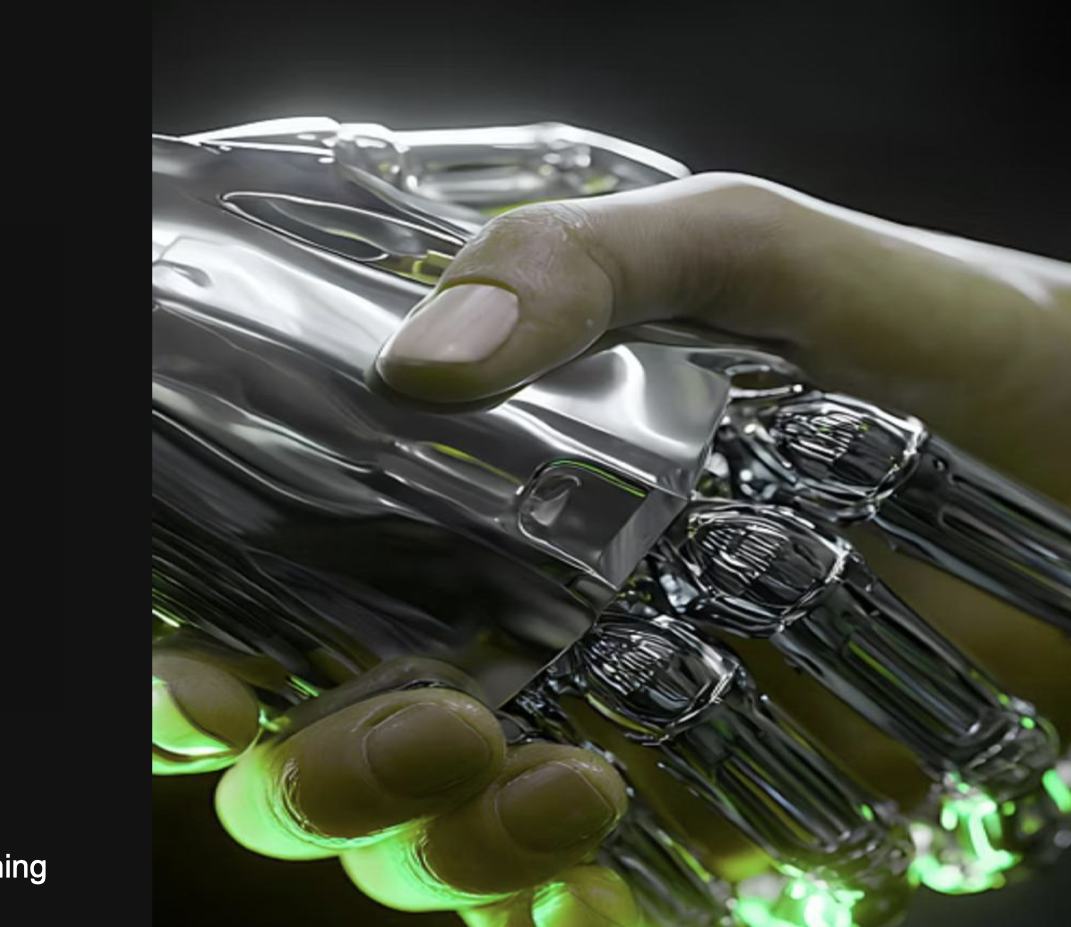
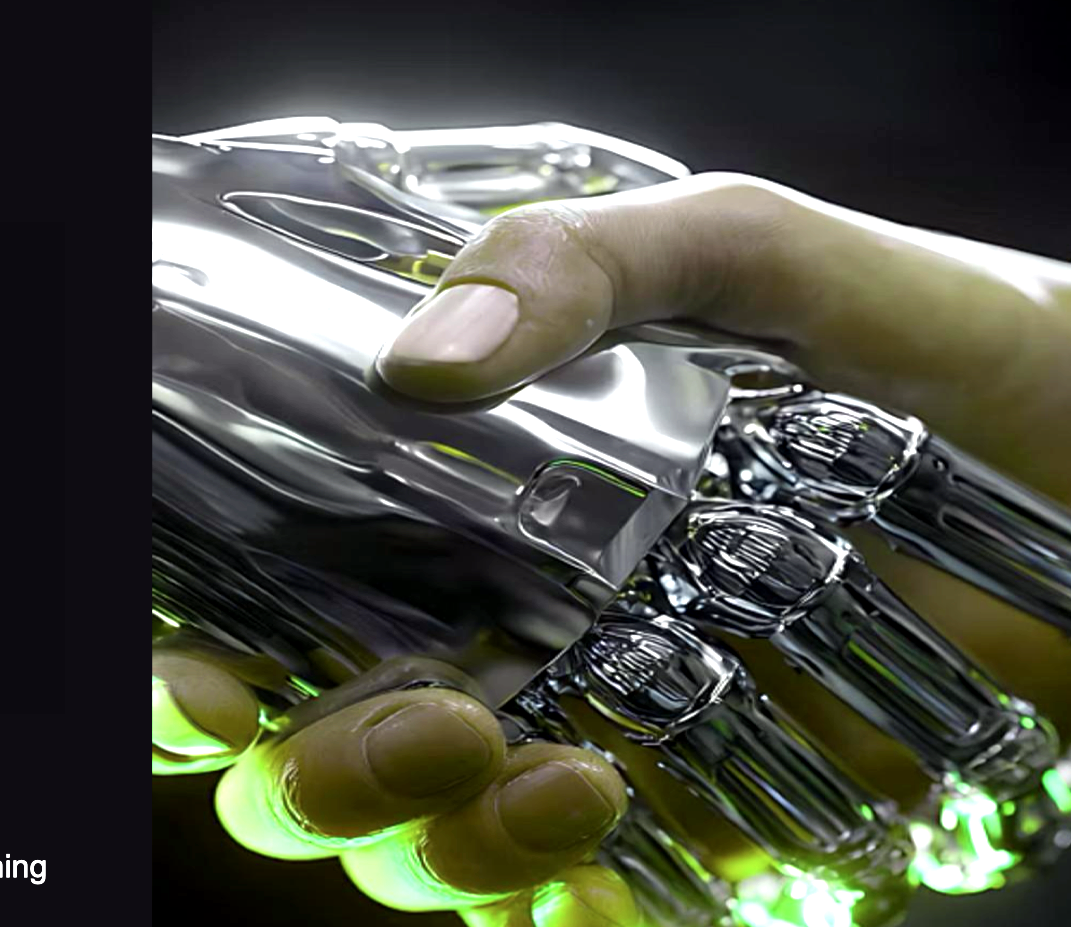
Tighten company overview cover layout and lift intro copy
Restore Trilogy Digital / A Trilogy Group Company branding, move the
transform intro up and full-width across the cover, shrink the handshake
panel, and brighten the hero image pending a better asset upload.

diff --git a/companyoverview/index.html b/companyoverview/index.html
@@ -22,8 +22,8 @@
   <link rel="preconnect" href="https://fonts.googleapis.com">
   <link rel="preconnect" href="https://fonts.gstatic.com" crossorigin>
   <link href="https://fonts.googleapis.com/css2?family=Inter:wght@400;500;600;700&amp;family=Poppins:wght@500;600;700&amp;display=swap" rel="stylesheet">
-  <link rel="stylesheet" href="../trilogydigital/styles.css?v=companyoverview-short-2">
-  <link rel="stylesheet" href="co-shell.css?v=companyoverview-short-2">
+  <link rel="stylesheet" href="../trilogydigital/styles.css?v=companyoverview-short-3">
+  <link rel="stylesheet" href="co-shell.css?v=companyoverview-short-3">
   <script>document.documentElement.classList.add("js-reveal");</script>
   <noscript><style>html.js-reveal .proposal-page { opacity: 1 !important; transform: none !important; }</style></noscript>
   <style>
@@ -40,27 +40,48 @@
     }
     html.js-reveal .proposal-page.is-visible { opacity: 1; transform: none; }
 
-    /* Cover hero — Make Customer Engagement Simple + handshake */
+    /* Cover hero — brand + Make Customer Engagement Simple + handshake */
     .cover.co-cover-hero {
-      padding-top: 4.5rem;
+      padding-top: 1.1rem;
+    }
+    .cover.co-cover-hero .cover__brand {
+      align-items: flex-start !important;
+      text-align: left !important;
+      padding-top: 0.35rem;
+      gap: 0.25rem;
+      margin-bottom: 0.85rem;
+    }
+    .cover.co-cover-hero .cover__logo {
+      position: static;
+      width: min(11.5rem, 48vw);
+      max-height: 2.5rem;
+      object-fit: contain;
+      object-position: left center;
+      margin: 0 0 0.35rem;
+    }
+    @media (min-width: 640px) {
+      .cover.co-cover-hero .cover__logo {
+        width: min(13.5rem, 28vw);
+        max-height: 2.85rem;
+      }
     }
     .co-hero {
       display: grid;
-      gap: 1.25rem;
+      gap: 1rem;
       align-items: center;
-      margin: 0.5rem 0 0.35rem;
+      margin: 0 0 0.85rem;
     }
     @media (min-width: 860px) {
       .co-hero {
-        grid-template-columns: minmax(0, 1.15fr) minmax(0, 0.95fr);
-        gap: 1.5rem;
+        grid-template-columns: minmax(0, 1.2fr) minmax(0, 0.8fr);
+        gap: 1.35rem;
       }
     }
     .co-hero__copy h1 {
       margin: 0;
       font-family: Poppins, Inter, sans-serif;
       font-weight: 700;
-      font-size: clamp(2rem, 4.8vw, 3.15rem);
+      font-size: clamp(1.85rem, 4.2vw, 2.85rem);
       line-height: 1.08;
       letter-spacing: -0.02em;
       color: #fff;
@@ -72,23 +93,29 @@
       margin: 0;
       border-radius: 0.85rem;
       overflow: hidden;
-      border: 1px solid rgba(97, 215, 121, 0.28);
-      background: #0b121a;
-      box-shadow: 0 18px 36px rgba(0, 0, 0, 0.28);
+      border: 1px solid rgba(97, 215, 121, 0.35);
+      background: #1a2430;
+      box-shadow: 0 14px 28px rgba(0, 0, 0, 0.22);
     }
     .co-hero__media img {
       display: block;
       width: 100%;
       height: auto;
-      aspect-ratio: 1 / 0.92;
+      max-height: 15.5rem;
+      aspect-ratio: 4 / 3;
       object-fit: cover;
-      object-position: center;
+      object-position: center 40%;
+      filter: brightness(1.08) contrast(1.04) saturate(1.05);
+    }
+    @media (min-width: 860px) {
+      .co-hero__media img { max-height: 17rem; }
     }
     .cover.co-cover-hero .cover__body {
-      margin-top: 0.35rem;
+      margin-top: 0;
+      width: 100%;
     }
     .cover.co-cover-hero .cover__body h2 {
-      margin: 0 0 0.35rem;
+      margin: 0 0 0.3rem;
       font-family: Poppins, Inter, sans-serif;
       font-size: clamp(1.35rem, 2.6vw, 1.85rem);
       font-weight: 700;
@@ -96,11 +123,15 @@
       letter-spacing: -0.01em;
     }
     .cover.co-cover-hero .cover__intro {
-      margin: 0.65rem 0 0;
-      max-width: 44rem;
-      color: rgba(255, 255, 255, 0.86);
-      font-size: 0.98rem;
+      margin: 0.55rem 0 0;
+      max-width: none;
+      width: 100%;
+      color: rgba(255, 255, 255, 0.9);
+      font-size: 1.02rem;
       line-height: 1.55;
+    }
+    .cover.co-cover-hero .meta-grid {
+      margin-top: 1rem;
     }
     .brand-marquee { margin: 0.35rem 0 0.85rem; }
     .brand-marquee__viewport {
@@ -264,13 +295,17 @@
 
     <section class="cover co-cover-hero" id="cover">
       <div class="cover__bars" aria-hidden="true"><span></span><span></span><span></span></div>
-      <img class="cover__logo" src="../presentations/_shared/logos/trilogy.png" alt="Trilogy" width="1400" height="301">
+      <div class="cover__brand">
+        <span class="cover__brand-name">Trilogy Digital</span>
+        <span class="cover__brand-line">A Trilogy Group Company</span>
+        <img class="cover__logo" src="../presentations/_shared/logos/trilogy.png" alt="Trilogy" width="1400" height="301">
+      </div>
       <div class="co-hero">
         <div class="co-hero__copy">
           <h1>Make Customer Engagement <span class="co-hero__accent">Simple.</span></h1>
         </div>
         <figure class="co-hero__media">
-          <img src="assets/human-ai-handshake.png" alt="Human and AI shaking hands — human-led, AI-enabled partnership" width="1071" height="927">
+          <img src="assets/human-ai-handshake.png?v=2" alt="Human and AI shaking hands — human-led, AI-enabled partnership" width="1071" height="927">
         </figure>
       </div>
       <div class="cover__body">
